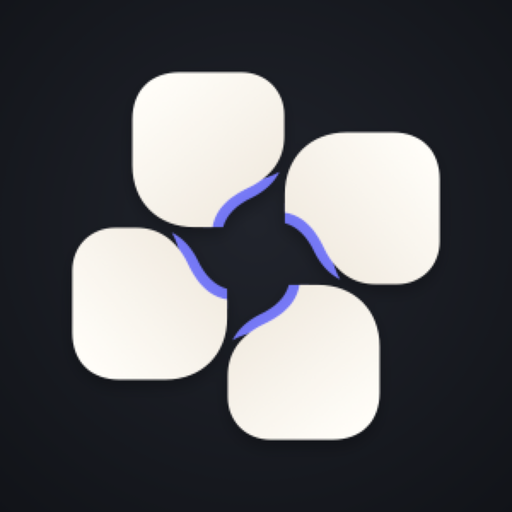
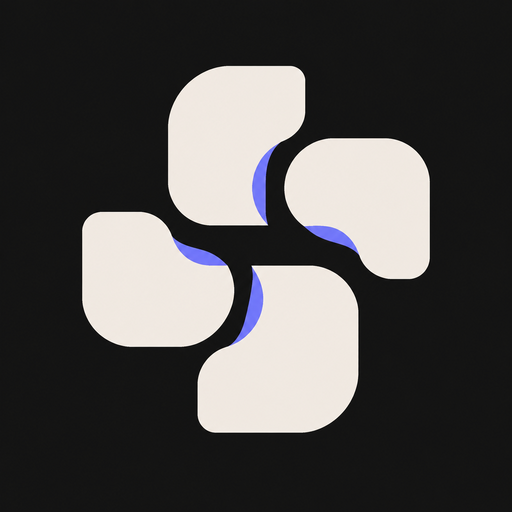
fix: use the approved Step Mosaic artwork

Changed region(s): [[0.125, 0.125, 0.875, 0.875]]

diff --git a/test/smoke.test.js b/test/smoke.test.js
@@ -1,6 +1,7 @@
 const test = require("node:test");
 const assert = require("node:assert/strict");
 const { execFileSync } = require("node:child_process");
+const crypto = require("node:crypto");
 const fs = require("node:fs");
 const path = require("node:path");
 
@@ -57,22 +58,24 @@ test("service worker keeps local Mermaid offline and never intercepts API or rel
 
 test("Stepsemble ships its own equal-participation Step Mosaic", () => {
   const html = fs.readFileSync(path.join(root, "public", "index.html"), "utf8");
-  const logo = fs.readFileSync(path.join(root, "public", "stepsemble-logo.svg"), "utf8");
-  const appIcon = fs.readFileSync(path.join(root, "public", "stepsemble-app-icon.svg"), "utf8");
+  const readme = fs.readFileSync(path.join(root, "README.md"), "utf8");
+  const mark = fs.readFileSync(path.join(root, "public", "stepsemble-mark.png"));
   const icon180 = fs.readFileSync(path.join(root, "public", "icon-180.png"));
   const icon512 = fs.readFileSync(path.join(root, "public", "icon-512.png"));
   assert.match(html, /class="login-mark brand-mark"/);
   assert.doesNotMatch(html, /official-mark/);
-  assert.match(logo, /Four equal agent modules/);
-  assert.match(appIcon, /Four equal agent modules/);
-  assert.match(logo, /coordination layer/);
-  assert.match(logo, /#8588FF/);
-  assert.match(logo, /#FFFDF8/);
-  assert.match(logo, /data-role="coordination-inset" data-attachment="overlap"/);
-  assert.match(appIcon, /data-role="coordination-inset" data-attachment="overlap"/);
-  assert.equal((logo.match(/href="#agent-module"/g) || []).length, 4);
-  assert.equal((appIcon.match(/href="#agent-module"/g) || []).length, 4);
-  assert.doesNotMatch(logo, /cat paw|terminal prompt|#FF6B5F/i);
+  assert.match(html, /rel="icon" href="\/icon-512\.png\?v=[^"]+" type="image\/png"/);
+  assert.match(readme, /public\/stepsemble-mark\.png/);
+  assert.doesNotMatch(`${html}\n${readme}`, /stepsemble-(?:logo|app-icon)\.svg/);
+  assert.equal(
+    crypto.createHash("sha256").update(mark).digest("hex"),
[1 lines of base64/hex data omitted]
+    "the canonical mark must remain the exact user-approved source artwork",
+  );
+  assert.deepEqual([mark.readUInt32BE(16), mark.readUInt32BE(20)], [1254, 1254]);
+  assert.equal(mark[25], 2, "canonical artwork should be opaque RGB");
[2 lines of base64/hex data omitted]
   assert.deepEqual([icon180.readUInt32BE(16), icon180.readUInt32BE(20)], [180, 180]);
   assert.deepEqual([icon512.readUInt32BE(16), icon512.readUInt32BE(20)], [512, 512]);
   assert.equal(icon180[25], 2, "Apple touch artwork should be opaque RGB");
@@ -82,16 +85,17 @@ test("Stepsemble ships its own equal-participation Step Mosaic", () => {
 test("the in-app brand mark follows the active theme colour without a plate", () => {
   const css = fs.readFileSync(path.join(root, "public", "style.css"), "utf8");
   const html = fs.readFileSync(path.join(root, "public", "index.html"), "utf8");
-  const glyph = fs.readFileSync(path.join(root, "public", "stepsemble-glyph.svg"), "utf8");
+  const glyph = fs.readFileSync(path.join(root, "public", "stepsemble-glyph.png"));
   const markBlock = css.slice(css.indexOf(".login-mark.brand-mark"), css.indexOf("html[data-design-theme="));
   assert.match(markBlock, /background-color: var\(--ink\)/);
-  assert.match(markBlock, /-webkit-mask: url\("\/stepsemble-glyph\.svg"\)/);
-  assert.match(markBlock, /\n  mask: url\("\/stepsemble-glyph\.svg"\)/);
+  assert.match(markBlock, /-webkit-mask: url\("\/stepsemble-glyph\.png"\)/);
+  assert.match(markBlock, /\n  mask: url\("\/stepsemble-glyph\.png"\)/);
   assert.doesNotMatch(markBlock, /#09090b/i);
   assert.doesNotMatch(markBlock, /border-radius: 1[0-9]px/);
   assert.match(markBlock, /forced-colors: active/);
-  // The glyph must carry no background plate of its own.
-  assert.doesNotMatch(glyph, /<rect/);
+  assert.deepEqual([glyph.readUInt32BE(16), glyph.readUInt32BE(20)], [512, 512]);
+  assert.equal(glyph[25], 6, "the theme-colour mask must retain transparency");
[1 lines of base64/hex data omitted]
   assert.match(html, /class="login-mark brand-mark" role="img" aria-label="Stepsemble"/);
   assert.match(html, /class="brand-glyph" role="img" aria-label="Stepsemble"/);
 });

diff --git a/public/index.html b/public/index.html
@@ -6,10 +6,10 @@
 <title>Stepsemble</title>
 <meta name="theme-color" content="#FAF7F0" media="(prefers-color-scheme: light)">
 <meta name="theme-color" content="#121212" media="(prefers-color-scheme: dark)">
-<link rel="manifest" href="/manifest.webmanifest?v=3.0.2">
-<link rel="icon" href="/stepsemble-logo.svg?v=3.0.2" type="image/svg+xml">
-<link rel="apple-touch-icon" href="/icon-180.png?v=3.0.2">
-<link rel="stylesheet" href="/style.css?v=3.0.2">
+<link rel="manifest" href="/manifest.webmanifest?v=3.0.3">
+<link rel="icon" href="/icon-512.png?v=3.0.3" type="image/png">
+<link rel="apple-touch-icon" href="/icon-180.png?v=3.0.3">
+<link rel="stylesheet" href="/style.css?v=3.0.3">
 </head>
 <body>
 
@@ -406,7 +406,7 @@
         </div>
         <div class="settings-row">
           <span><strong>Stepsemble</strong><small>Mobile-first remote workspace for Pi</small></span>
-          <span class="settings-value" id="set-app-version">v3.0.2</span>
+          <span class="settings-value" id="set-app-version">v3.0.3</span>
         </div>
         <div class="settings-row">
           <span><strong>Pi version</strong><small>Pi coding agent installed on this device</small></span>
@@ -866,10 +866,10 @@
 
 <script src="/vendor/marked.min.js"></script>
 <script src="/vendor/purify.min.js"></script>
-<script src="/i18n.js?v=3.0.2"></script>
-<script src="/modules/app-foundation.js?v=3.0.2"></script>
-<script src="/modules/session-utils.js?v=3.0.2"></script>
-<script src="/modules/context-usage.js?v=3.0.2"></script>
-<script src="/app.js?v=3.0.2"></script>
+<script src="/i18n.js?v=3.0.3"></script>
+<script src="/modules/app-foundation.js?v=3.0.3"></script>
+<script src="/modules/session-utils.js?v=3.0.3"></script>
+<script src="/modules/context-usage.js?v=3.0.3"></script>
+<script src="/app.js?v=3.0.3"></script>
 </body>
 </html>

diff --git a/public/sw.js b/public/sw.js
@@ -1,18 +1,17 @@
-const CACHE_NAME = "stepsemble-shell-v3.0.2";
+const CACHE_NAME = "stepsemble-shell-v3.0.3";
 const SHELL = [
   "/",
   "/index.html",
-  "/style.css?v=3.0.2",
-  "/i18n.js?v=3.0.2",
-  "/modules/app-foundation.js?v=3.0.2",
-  "/modules/session-utils.js?v=3.0.2",
-  "/modules/context-usage.js?v=3.0.2",
-  "/app.js?v=3.0.2",
-  "/manifest.webmanifest?v=3.0.2",
-  "/stepsemble-logo.svg?v=3.0.2",
-  "/stepsemble-glyph.svg",
-  "/icon-180.png?v=3.0.2",
-  "/icon-512.png?v=3.0.2",
+  "/style.css?v=3.0.3",
+  "/i18n.js?v=3.0.3",
+  "/modules/app-foundation.js?v=3.0.3",
+  "/modules/session-utils.js?v=3.0.3",
+  "/modules/context-usage.js?v=3.0.3",
+  "/app.js?v=3.0.3",
+  "/manifest.webmanifest?v=3.0.3",
+  "/stepsemble-glyph.png",
+  "/icon-180.png?v=3.0.3",
+  "/icon-512.png?v=3.0.3",
   "/vendor/marked.min.js",
   "/vendor/purify.min.js",
   "/vendor/mermaid.min.js",
@@ -57,7 +56,7 @@ self.addEventListener("push", (event) => {
   event.waitUntil(self.registration.showNotification(title, {
     body,
     icon: "/icon-180.png",
-    badge: "/stepsemble-glyph.svg",
+    badge: "/stepsemble-glyph.png",
     tag: "stepsemble-run",
     data: { file: data.file || null, taskId: data.taskId || null },
   }));

diff --git a/public/style.css b/public/style.css
@@ -1,4 +1,4 @@
-/* stepsemble v3.0.2 — Ink & Ivory / English-first localization */
+/* stepsemble v3.0.3 — Ink & Ivory / English-first localization */
 
 :root {
   --paper: #FAF7F0;
@@ -2496,8 +2496,8 @@ html.reduced-motion .session-running-dot { animation: none; }
   border: 0;
   border-radius: 0;
   background-color: var(--ink);
-  -webkit-mask: url("/stepsemble-glyph.svg") center / contain no-repeat;
-  mask: url("/stepsemble-glyph.svg") center / contain no-repeat;
+  -webkit-mask: url("/stepsemble-glyph.png") center / contain no-repeat;
+  mask: url("/stepsemble-glyph.png") center / contain no-repeat;
 }
 .login-mark.brand-mark { color: transparent; font-size: 0; line-height: 0; }
 .onboarding-brand .brand-glyph { width: 34px; height: 34px; flex: none; }

diff --git a/public/app.js b/public/app.js
@@ -1,7 +1,7 @@
-/* stepsemble v3.0.2 — project changes, resilient drafts, and mobile polish */
+/* stepsemble v3.0.3 — project changes, resilient drafts, and mobile polish */
 "use strict";
 
-const CLIENT_APP_VERSION = "3.0.2";
+const CLIENT_APP_VERSION = "3.0.3";
 
 // The browser remains buildless, but feature-independent foundations live in
 // small files loaded before this controller. This keeps deployment as simple

diff --git a/server.js b/server.js
@@ -56,7 +56,7 @@ const {
 // 配置
 // ---------------------------------------------------------------------------
 
-const APP_VERSION = "3.0.2";
+const APP_VERSION = "3.0.3";
 const PUBLIC_DIR = path.join(__dirname, "public");
 function expandHome(value) {
   if (!value) return value;

diff --git a/docs/platform-plan.md b/docs/platform-plan.md
@@ -1,9 +1,9 @@
 # Stepsemble 跨平台完整體架構與執行計畫
 
 > 狀態：已接受（Accepted）
-> 計畫版本：1.4
+> 計畫版本：1.5
 > 最後更新：2026-09-04
-> 當前產品基線：Stepsemble 3.0.2（由 Pi Harbor 2.13.2 相容遷移）
+> 當前產品基線：Stepsemble 3.0.3（由 Pi Harbor 2.13.2 相容遷移）
 > 當前實作：Node.js 22.19+ ＋無建置步驟的 JavaScript PWA
 > 長期目標：Rust Host Core ＋ TypeScript 跨平台 Client ＋ Tauri 2 App Shell
 
@@ -33,7 +33,7 @@
 | 產品名稱與識別 | 已定案 | Stepsemble；step + ensemble；四個等權模組代表 agents，藍紫內緣代表每個 agent 共用的 Stepsemble coordination layer |
 | Host/Client 邊界 | 已定案 | Desktop 可為 Host + Client；iOS/Android 初期只為 Client |
 | App Shell | 目標已定，待驗證 | Tauri 2 為預設方案；必須先通過 Apple 實機 PoC 驗收門檻 |
-| 當前回歸基線 | 已通過 | 2026-09-04 Stepsemble 3.0.2 執行 `npm test`：127/127 通過，約 11.4 秒 |
+| 當前回歸基線 | 已通過 | 2026-09-04 Stepsemble 3.0.3 執行 `npm test`：127/127 通過，約 11.4 秒 |
 | 現行系統盤點 | 已完成 | HTTP/SSE/RPC、資料、狀態、approval、event、安裝與 rollback 已落於 `current-system-inventory.md` |
 | 本機品牌遷移 | 已部署 | Mac Mini 已由 2.13.2 原地升級至 3.0.0；session/token/SSH launcher/CUA driver 均完成前後核對 |
 | 跨平台 installer smoke | 部分完成 | macOS live migration、Linux clean-container install、Windows PowerShell AST 通過；Linux systemd/Windows Scheduled Task real runner 待補 |
@@ -110,7 +110,7 @@ Tauri App 不得繞過公開 Host API 直接呼叫私有商業邏輯。原生 IP
 
 - 公開產品名、套件名、服務名、設定路徑、環境變數與 protocol 新前綴統一使用 Stepsemble／`stepsemble`／`STEPSEMBLE_*`。
 - 名稱來自 **step + ensemble**：不同 coding agent 以一致步伐協作，不綁定單一 harness 或 model。
-- Step Mosaic 由四個等權模組組成：錯落旋轉代表 step-by-step handoff，四個相同藍紫內緣代表每個 agent 都接入同一個 Stepsemble coordination layer，中央負空間代表共同 workspace。藍紫內緣必須與暖白主體重疊接合、視覺上一體成形，不得被背景色或陰影切成浮離的零件。
[1 lines of base64/hex data omitted]
 - 核心品牌禁止使用 provider logo 或把 Claude、Codex 等供應商代表色固定分配給任一模組；provider identity 只在有文字標籤的產品 UI 中出現。
 - v3 保留 Pi Harbor／Pi Web 的設定路徑、cookie、環境變數、配對碼與 Release asset 讀取相容；舊來源只複製、不刪除，健康檢查成功前不封存舊程式。
 - 2026-09-04 的初步 exact-name 網路、常見 package registry、GitHub、App Store 與主要網域檢查未發現明顯同名產品；這不是正式商標法律意見，公開商業發佈前仍需做目標市場商標檢索。

diff --git a/CHANGELOG.md b/CHANGELOG.md
@@ -1,5 +1,14 @@
 # Changelog
 
+## 3.0.3
+
+- Made the exact user-approved 1254 px Step Mosaic artwork the canonical brand
+  source instead of continuing with an approximate hand-redrawn SVG.
+- Regenerated the Apple touch and PWA icons directly from that source, and
+  derived the monochrome interface mask from the same silhouette.
+- Removed the inaccurate coloured SVG redraws from active use and locked the
+  canonical source checksum in the brand regression test.
+
 ## 3.0.2
 
 - Corrected the Step Mosaic vector construction so every violet coordination

diff --git a/README.md b/README.md
@@ -1,5 +1,5 @@
 <p align="center">
-  <img src="public/stepsemble-logo.svg" width="112" height="112" alt="Stepsemble four-module logo">
+  <img src="public/stepsemble-mark.png" width="112" height="112" alt="Stepsemble four-module logo">
 </p>
 
 <h1 align="center">Stepsemble</h1>
